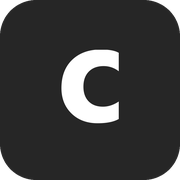
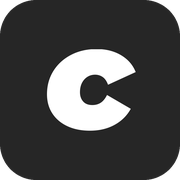
로고 글자 디자인: 굵은 이탤릭, commun 흰색 + active 회색
- Montserrat Black Italic (로고 글자만 서브셋으로 로드)
- 공유 이미지/아이콘도 같은 글꼴로 교체

Changed region(s): [[0.25, 0.25, 0.75, 0.75]]

diff --git a/templates/base.html b/templates/base.html
@@ -13,10 +13,13 @@
   <meta property="og:description" content="{{ self.description() }}">
   <meta property="og:image" content="{{ url_for('static', filename='img/og-image.png', _external=True) }}">
   <meta name="twitter:card" content="summary_large_image">
-  <link rel="icon" href="{{ url_for('static', filename='img/favicon.svg') }}" type="image/svg+xml">
   <link rel="icon" href="{{ url_for('static', filename='img/favicon-32.png') }}" type="image/png" sizes="32x32">
   <link rel="apple-touch-icon" href="{{ url_for('static', filename='img/apple-touch-icon.png') }}">
-  <link rel="stylesheet" href="{{ url_for('static', filename='css/style.css') }}?v=3">
+  <link rel="preconnect" href="https://fonts.googleapis.com">
+  <link rel="preconnect" href="https://fonts.gstatic.com" crossorigin>
+  {# 로고 글자 전용 폰트: 로고에 쓰는 글자만 받아서 아주 가볍다 #}
+  <link rel="stylesheet" href="https://fonts.googleapis.com/css2?family=Montserrat:ital,wght@1,900&text=communactive&display=swap">
+  <link rel="stylesheet" href="{{ url_for('static', filename='css/style.css') }}?v=4">
 </head>
 <body>
 {# 로고 옆 섹션 이름 (디시의 "dcinside | ○○ 갤러리" 처럼) #}
@@ -40,7 +43,7 @@
 <header class="topbar">
   <div class="wrap topbar-inner">
     <div class="brand">
-      <a class="wordmark" href="{{ url_for('main.home') }}">communactive</a>
+      <a class="wordmark" href="{{ url_for('main.home') }}" aria-label="communactive 홈">commun<span>active</span></a>
       {% if section %}
         <span class="brand-sep"></span>
         {% if section_url %}<a class="brand-section" href="{{ section_url }}">{{ section }}</a>

diff --git a/static/css/style.css b/static/css/style.css
@@ -60,8 +60,13 @@ a.u { text-decoration: underline; text-underline-offset: 2px; }
 .topbar { background: var(--ink); color: #fff; }
 .topbar-inner { display: flex; align-items: center; gap: 24px; height: 58px; }
 .brand { display: flex; align-items: center; gap: 10px; flex: 0 0 auto; min-width: 0; }
-.wordmark { font-family: "Segoe UI", -apple-system, Arial, sans-serif; font-weight: 800; font-size: 23px; letter-spacing: -1px; color: #fff; }
+.wordmark {
+  font-family: "Montserrat", "Segoe UI", Arial, sans-serif; font-weight: 900; font-style: italic;
+  font-size: 26px; letter-spacing: -2px; line-height: 1; color: #fff; padding-right: 4px;
+}
+.wordmark span { color: #9a9a9a; }
 .wordmark:hover { text-decoration: none; }
+.wordmark:hover span { color: #b8b8b8; }
 .brand-sep { width: 1px; height: 16px; background: rgba(255,255,255,.35); }
 .brand-section { font-size: 16px; font-weight: 700; color: #e9e9e9; white-space: nowrap; overflow: hidden; text-overflow: ellipsis; max-width: 260px; }
 .top-search { flex: 1; max-width: 440px; display: flex; height: 36px; margin: 0 auto; }
@@ -360,7 +365,7 @@ input:focus, textarea:focus { outline: none; border-color: var(--sub); }
 }
 @media (max-width: 640px) {
   .topbar-inner { gap: 10px; height: 52px; }
-  .wordmark { font-size: 19px; }
+  .wordmark { font-size: 21px; letter-spacing: -1.6px; }
   .brand-section { font-size: 14px; max-width: 120px; }
   .top-search { display: none; }
   .userbox { margin-left: auto; }
